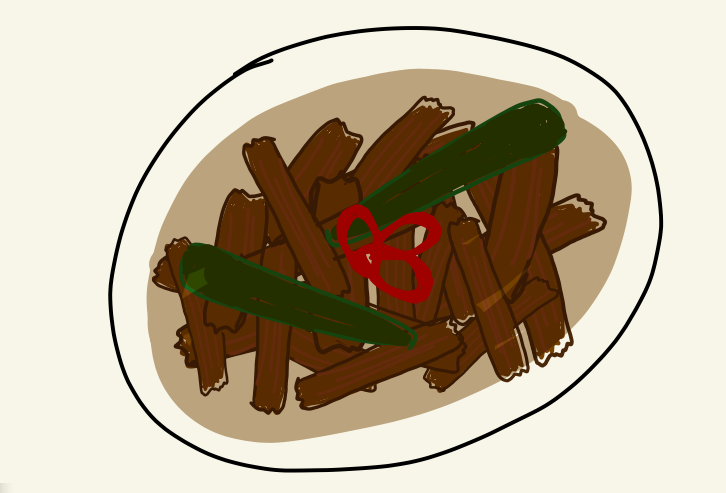
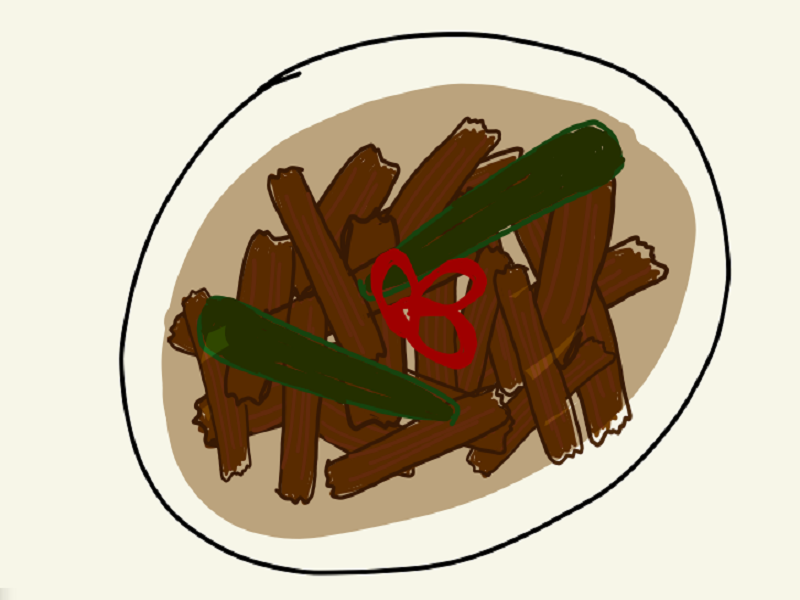
크기조절

diff --git a/javaMin/src/Controller/HintPaint.java b/javaMin/src/Controller/HintPaint.java
@@ -17,13 +17,13 @@ public class HintPaint extends JFrame {
    public void frame() {
 
       setTitle("Hint");
-      setSize(1000,800);
+      setSize(900,700);
       setResizable(false);
       setLocationRelativeTo(null);
       setVisible(true);
    }
 
    public void paint(Graphics g) {
-      g.drawImage(background, 100, 100, null);
+      g.drawImage(background, 50, 50, null);
    }
 }
